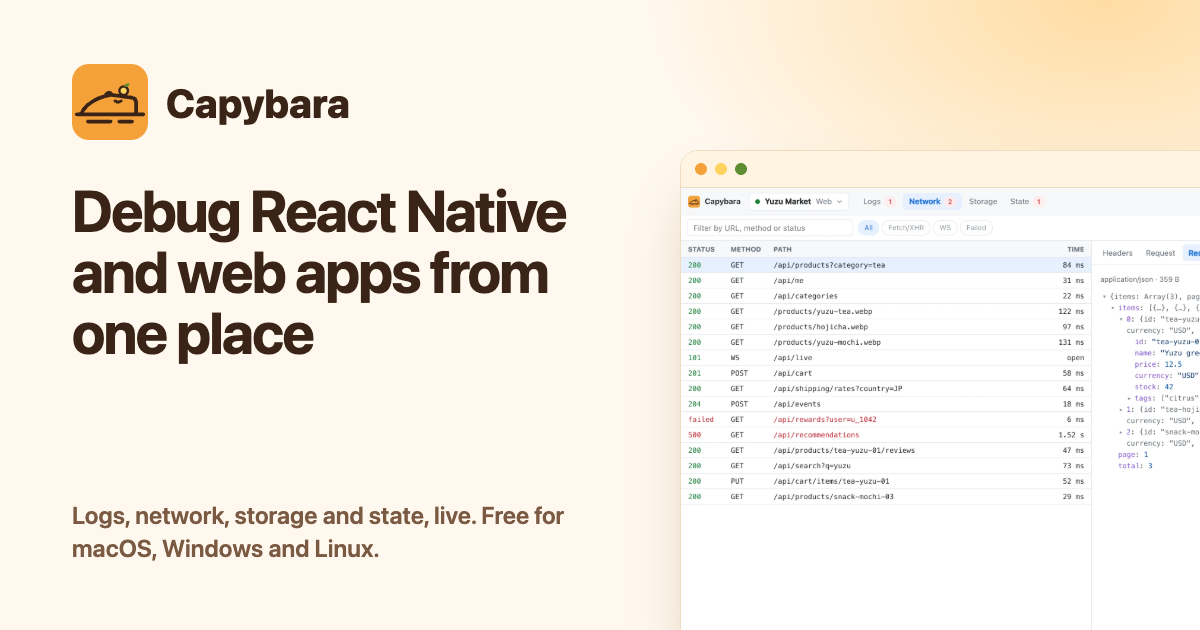
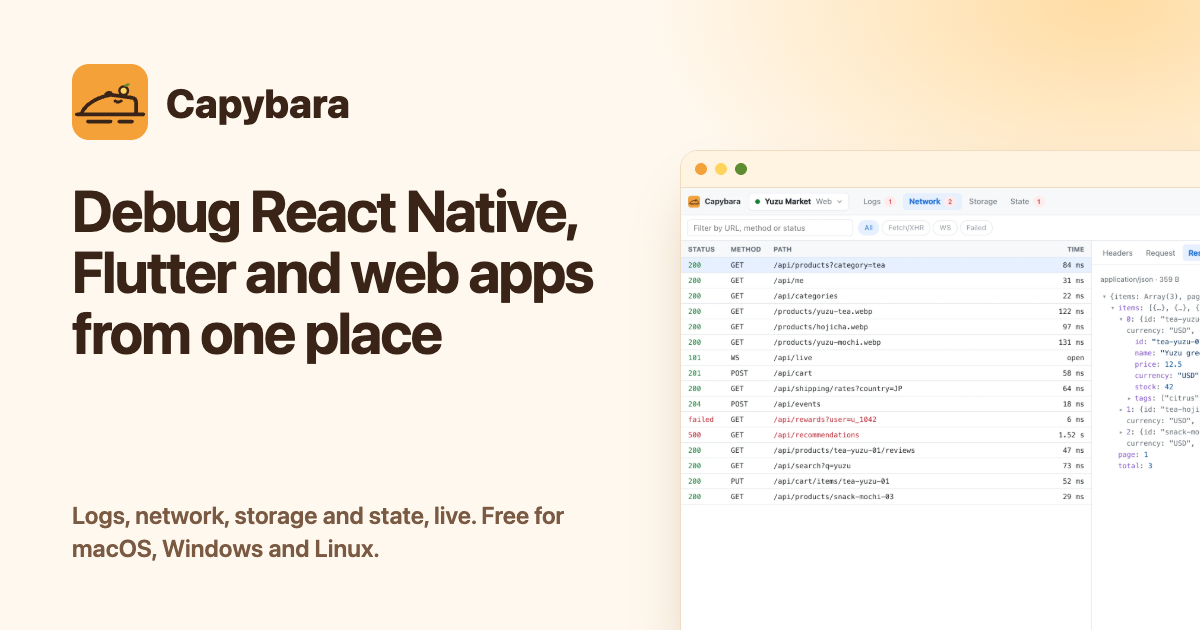
docs(website): add Flutter to the site
The page says what Flutter apps get: logs and requests with no package, and with capybara_devtools
from pub.dev storage (SharedPreferences, secure storage, Hive), state (Riverpod, Bloc) and
WebSockets, with a Flutter card in Get started. The title, descriptions and link preview card name
Flutter too. docs/PLAN.md records the release: npm 0.6.0 and pub.dev 0.1.0 on 28/10/2026.

Changed region(s): [[0.0617, 0.3619, 0.4933, 0.573]]

diff --git a/website/index.html b/website/index.html
@@ -3,10 +3,10 @@
   <head>
     <meta charset="UTF-8" />
     <meta name="viewport" content="width=device-width, initial-scale=1" />
-    <title>Capybara · Debug React Native and web apps from one place</title>
+    <title>Capybara · Debug React Native, Flutter and web apps from one place</title>
     <meta
       name="description"
-      content="Debug React Native and web apps from one place: logs, network (including WebSockets), storage and state from Redux, Zustand, TanStack Query, SWR and React Context, streamed live to a local UI. Free and open source for macOS, Windows and Linux."
+      content="Debug React Native, Flutter and web apps from one place: logs, network (including WebSockets), storage and state from Redux, Zustand, TanStack Query, SWR, React Context, Riverpod and Bloc, streamed live to a local UI. Free and open source for macOS, Windows and Linux."
     />
     <meta name="color-scheme" content="light dark" />
     <link rel="icon" type="image/svg+xml" href="./src/assets/logo.svg" />
@@ -16,7 +16,7 @@
     <meta property="og:title" content="Capybara" />
     <meta
       property="og:description"
-      content="Debug React Native and web apps from one place: logs, network (including WebSockets), storage and app state, streamed live to a local UI."
+      content="Debug React Native, Flutter and web apps from one place: logs, network (including WebSockets), storage and app state, streamed live to a local UI."
     />
     <meta property="og:image" content="https://capybara.lhphuc.com/og.png" />
     <meta name="twitter:card" content="summary_large_image" />
@@ -49,10 +49,11 @@
         <div class="container hero-inner">
           <div class="hero-text">
             <p class="eyebrow">Free and open source · macOS, Windows, Linux</p>
-            <h1>Debug React Native and web apps from one place</h1>
+            <h1>Debug React Native, Flutter and web apps from one place</h1>
             <p class="lead">
-              Logs, network (including WebSockets), storage, and state from Redux, Zustand, TanStack Query, SWR and React Context,
-              streamed live from your app to a local UI. On React Native 0.85 and later, logs, network and storage need no SDK.
+              Logs, network (including WebSockets), storage, and state from Redux, Zustand, TanStack Query, SWR, React Context,
+              Riverpod and Bloc, streamed live from your app to a local UI. React Native 0.85 and later needs no SDK for logs, network
+              and storage, and Flutter none for logs and network.
             </p>
             <div class="actions">
               <a class="button primary" id="hero-download" href="#download">Download</a>
@@ -122,9 +123,9 @@
               <div class="showcase-text">
                 <h3>See your app's state, change by change</h3>
                 <p>
-                  Redux, Zustand, TanStack Query, SWR and React Context in one tab: every action with what it changed, the current
-                  state, and query caches you can refetch or invalidate. Redux Toolkit, zustand's <code>devtools()</code> and
-                  Context need no extra code.
+                  Redux, Zustand, TanStack Query, SWR and React Context in one tab, and Riverpod and Bloc in Flutter: every action
+                  with what it changed, the current state, and query caches you can refetch or invalidate. Redux Toolkit, zustand's
+                  <code>devtools()</code> and Context need no extra code.
                 </p>
               </div>
               <figure class="window">
@@ -175,8 +176,8 @@
               <div class="showcase-text">
                 <h3>Read and edit storage</h3>
                 <p>
-                  localStorage, sessionStorage and cookies on the web. AsyncStorage and MMKV in React Native. Values refresh as the
-                  app writes them, and JSON opens as a tree.
+                  localStorage, sessionStorage and cookies on the web. AsyncStorage and MMKV in React Native. SharedPreferences,
+                  secure storage and Hive in Flutter. Values refresh as the app writes them, and JSON opens as a tree.
                 </p>
               </div>
               <figure class="window">
@@ -244,12 +245,18 @@
 
           <div class="feature-grid">
             <article class="feature">
-              <h3>No SDK for React Native</h3>
-              <p>On React Native 0.85 and later, Capybara attaches through Metro. Start your app as usual; nothing to install in it.</p>
+              <h3>No SDK for React Native or Flutter</h3>
+              <p>
+                Capybara attaches to React Native 0.85 and later through Metro, and to Flutter apps through the Dart VM service. Start
+                your app as usual; nothing to install in it.
+              </p>
             </article>
             <article class="feature">
               <h3>Requests and WebSockets</h3>
-              <p>fetch, XHR and axios with headers, bodies and timing. WebSocket messages both ways, with socket.io frames decoded.</p>
+              <p>
+                fetch, XHR and axios, or dio and <code>package:http</code> in Flutter, with headers, bodies and timing. WebSocket
+                messages both ways, with socket.io frames decoded.
+              </p>
             </article>
             <article class="feature">
               <h3>Ask your AI assistant</h3>
@@ -288,6 +295,37 @@
                   </li>
                   <li>Start Metro and run your app on a simulator or phone.</li>
                   <li>Your app appears, with its logs, network and storage.</li>
+                </ol>
+              </div>
+            </article>
+            <article class="step">
+              <div class="step-text">
+                <div class="step-head">
+                  <h3>Flutter</h3>
+                  <span class="tag tag-ok">Works today</span>
+                </div>
+                <p>
+                  Logs, errors and requests with no package. Storage, state and WebSockets come with
+                  <a href="https://pub.dev/packages/capybara_devtools">capybara_devtools</a> from pub.dev.
+                </p>
+              </div>
+              <div class="step-body">
+                <ol>
+                  <li>
+                    Open the <a href="#download">desktop app</a>, or run Capybara in a terminal:
+                    <div class="code-block">
+                      <pre><code>npx capybara-devtools</code></pre>
+                      <button type="button" class="copy-button" data-copy>Copy</button>
+                    </div>
+                  </li>
+                  <li>Run your app in debug mode with <code>flutter run</code>, or from your IDE. It appears on its own.</li>
+                  <li>
+                    For storage, state and WebSockets, add the package and run the app inside <code>Capybara.run</code>:
+                    <div class="code-block">
+                      <pre><code>flutter pub add capybara_devtools</code></pre>
+                      <button type="button" class="copy-button" data-copy>Copy</button>
+                    </div>
+                  </li>
                 </ol>
               </div>
             </article>
@@ -350,7 +388,8 @@ if (import.meta.env.DEV) init({ appName: 'My web app' });</code></pre>
           </div>
           <p class="note centered">
             Older React Native, editing storage, or state in a React Native app? Add <code>@capybara-devtools/react-native</code>;
-            the <a href="https://github.com/lhphuc99/capybara#readme">README</a> shows how.
+            the <a href="https://github.com/lhphuc99/capybara#readme">README</a> shows how, and how to add
+            <a href="https://github.com/lhphuc99/capybara#flutter--the-capybara-package">Riverpod and Bloc</a> to a Flutter app.
             <span class="npm-soon-note">Until the packages are on npm, <a href="https://github.com/lhphuc99/capybara#quick-start">run Capybara from source</a>.</span>
           </p>
           <p class="sr-only" aria-live="polite" id="copy-status"></p>
@@ -365,7 +404,7 @@ if (import.meta.env.DEV) init({ appName: 'My web app' });</code></pre>
           <ol class="flow">
             <li>
               <strong>Your app</strong>
-              <span>React Native through Metro, or a web page with the SDK</span>
+              <span>React Native through Metro, Flutter through the Dart VM service, or the SDK in your app</span>
             </li>
             <li>
               <strong>Capybara</strong>

diff --git a/website/scripts/og.html b/website/scripts/og.html
@@ -88,7 +88,7 @@
   </head>
   <body>
     <div class="brand"><img src="../src/assets/logo.svg" alt="" />Capybara</div>
-    <h1>Debug React Native and web apps from one place</h1>
+    <h1>Debug React Native, Flutter and web apps from one place</h1>
     <p>Logs, network, storage and state, live. Free for macOS, Windows and Linux.</p>
     <div class="window">
       <div class="bar"><span></span><span></span><span></span></div>

diff --git a/docs/PLAN.md b/docs/PLAN.md
@@ -8,7 +8,7 @@ Tool debug dùng chung cho React Native và web (React, phía client của Next.
 
 **Cập nhật hướng kết nối React Native:** CLI và desktop tự tìm app qua Metro/CDP ở cổng 8081/8082, không cần SDK cho log, network và storage có thể dò được. Storage qua CDP xem và sửa được (sửa có từ 0.5.1): AsyncStorage, MMKV export và instance private bắt qua runtime hook. MMKV ở đây là package `react-native-mmkv`, không phải MMKV lõi của Tencent (lõi đang ở 2.x). Nhắm tới react-native-mmkv 3.x/4.x và MMKV trên web; bản 2.x cần kiến trúc cũ nên nằm ngoài phạm vi. 3.x bắt khi app dùng lại instance, 4.x bắt khi app tạo instance sau lúc hook được gắn. Instance private 4.x đã tồn tại vẫn có thể không tìm được. Chế độ không SDK cần RN 0.85 trở lên: proxy Metro bản cũ hơn đá debugger đang mở khi có debugger mới nối vào. Chỉ attach target hỗ trợ nhiều debugger. SDK vẫn dùng cho web và để tab Storage tự cập nhật khi app ghi. App đã có SDK được bỏ qua để tránh trùng phiên. Metro port khác cấu hình bằng CLI `--metro-port`; `--no-metro` tắt discovery; app desktop chỉnh cả hai trong menu Settings (từ 0.5.1). Hướng dẫn và giới hạn hiện tại ở [README](../README.md#react-native--expo--no-sdk-needed).
 
-**Flutter (28/10/2026, chưa phát hành):** CLI và desktop tự tìm app Flutter chạy debug bằng `flutter run` hoặc IDE, qua tiến trình Dart Development Service (DDS) đi kèm mỗi app, rồi đọc qua Dart VM service như Flutter DevTools: log (`print`, `debugPrint`, `developer.log`), lỗi Flutter có stack, HTTP có header và body. Không cần gói, không sửa code. WebSocket, storage và state cần gói Dart `capybara_devtools` (mốc F2, ở `dart/packages`, chưa lên pub.dev): log, lỗi, request từ đầu, WebSocket, storage sửa được, state qua `capybara_devtools_riverpod`, `capybara_devtools_bloc` và `Capybara.watch`. Kế hoạch ở `plans/261027-flutter-support/` (chỉ ở máy). Hướng dẫn và giới hạn ở [README](../README.md#flutter--no-package-needed).
+**Flutter (phát hành 28/10/2026: npm 0.6.0, pub.dev 0.1.0):** CLI và desktop tự tìm app Flutter chạy debug bằng `flutter run` hoặc IDE, qua tiến trình Dart Development Service (DDS) đi kèm mỗi app, rồi đọc qua Dart VM service như Flutter DevTools: log (`print`, `debugPrint`, `developer.log`), lỗi Flutter có stack, HTTP có header và body. Không cần gói, không sửa code. WebSocket, storage và state cần gói Dart `capybara_devtools` (mốc F2, ở `dart/packages`, trên pub.dev dưới publisher `capybara.lhphuc.com`): log, lỗi, request từ đầu, WebSocket, storage sửa được, state qua `capybara_devtools_riverpod`, `capybara_devtools_bloc` và `Capybara.watch`. Kế hoạch ở `plans/261027-flutter-support/` (chỉ ở máy). Hướng dẫn và giới hạn ở [README](../README.md#flutter--no-package-needed).
 
 Định hướng sản phẩm: **một SDK, hai chế độ**
 
@@ -136,7 +136,7 @@ App (RN / web)                                 Máy dev
 
 **Đã xong và đã chạy thử**
 
-- Flutter qua Dart VM service (28/10/2026), sẽ có từ bản minor tiếp theo:
+- Flutter qua Dart VM service (28/10/2026), có từ 0.6.0:
   - Spike (`plans/261027-flutter-support/reports/02-vm-service-spike.md`): Flutter 3.47.8 (Dart 3.13.7, DDS 2.1), app `dart/example` trên simulator iPhone Duo (iOS 27.1) và máy ảo `Capybara-Android-Test` (API 34). Thấy app và mở phiên sau 0,3–0,6 s; 1000 dòng `print` đủ và đúng thứ tự; body request/response của dio, `http`, `HttpClient`, cupertino_http khớp sha256 từng byte với mock server (10 KB, 1 MB, POST JSON, multipart, 404); hot restart qua service của flutter tool, terminal `flutter run` không đổi.
   - CLI thật (`bin.js`, cổng tạm) với cả hai app cùng lúc: hai phiên `capybara_example` (iOS, Android có `isEmulator`), runtime "Flutter 3.47.8 · Dart 3.13.7 · via Dart VM service"; tab Logs có print/debugPrint, `developer.log` mức warn kèm `[example.checkout]`, lỗi build `StateError` có stack; Network có request kèm body, lỗi kết nối; Storage và State nói cần gói cho Flutter. Đã chụp UI để soát. `capybara setup-guide dart/example` ra hướng dẫn Flutter.
   - Máy thật Pixel 7 (Android 17, USB): phiên "Pixel 7", có `print`, `debugPrint`, `developer.log` kèm lỗi, lỗi build có stack; body HTTP khớp sha256 với mock server (GET 10 KB, POST echo cả request lẫn response, 404, phản hồi upload; multipart ghi là binary đúng 65926 byte; 1 MB cắt khi hiện, size đúng), lỗi kết nối có message. App gọi mock server qua `adb reverse tcp:4100` và `--dart-define=MOCK_HOST=127.0.0.1`.
@@ -284,9 +284,9 @@ App (RN / web)                                 Máy dev
   - cửa sổ ẩn vẫn nhận và hiện event ngay
   - `npm run desktop:package` ra `.dmg` và `.zip` (ad-hoc signed); app đóng gói chạy được, UI phục vụ từ `app.asar`
 
-- Gói Dart `capybara_devtools` 0.1.0 (28/10/2026, chưa phát hành): 38 test (client với socket giả và `fake_async`, serialize, `run`/`init`/hook lỗi, socket thật qua `HttpOverrides`), test hợp đồng với server Node thật build từ repo (phiên, log, lỗi, command khứ hồi, nối lại khi server khởi động lại), test biên dịch web trên Chrome. App mẫu chạy với `--dart-define=CAPYBARA_SDK=true` trên simulator iPhone Duo, máy ảo Android `Pixel_Fold_API_34` (API 34) và macOS (debug, và release có `CAPYBARA_ENABLED`): phiên `capybara_devtools` "iOS 27.1 · emulator" / "Google sdk_gphone64_arm64 · Android 14 · emulator" / "macOS 27.0.1", runtime "Flutter 3.47.8 · Dart 3.13.7", `dartPackages` cả ở bản AOT; có `print`, `debugPrint`, `Capybara.log` kèm giá trị, lỗi async nhận ở zone, lỗi build/assert/overflow kèm thư viện, ngữ cảnh và widget gây lỗi; 1000 dòng `print` đủ (8 lô); hot restart ra phiên mới; bridge nhường app, không có phiên trùng. Android: không có `adb reverse` thì nối qua `10.0.2.2`; `ext.capybara.connect` sang `127.0.0.1` (có `adb reverse` trên máy ảo đó) nối lại cùng phiên, seq liền mạch, không trùng; host sai bị từ chối. App bỏ `usesCleartextTraffic` vẫn nối được `ws://`: chính sách cleartext của Android không áp lên socket của dart:io. Máy thật Pixel 7 (Android 17): "Google Pixel 7 · Android 17", qua USB nối `127.0.0.1` nhờ `adb reverse`; qua Wi‑Fi bằng `--dart-define=CAPYBARA_HOST=<IP LAN của máy>` và bằng `ext.capybara.connect` (cùng phiên, server ghi địa chỉ của điện thoại).
+- Gói Dart `capybara_devtools` 0.1.0 (phát hành 28/10/2026): 38 test (client với socket giả và `fake_async`, serialize, `run`/`init`/hook lỗi, socket thật qua `HttpOverrides`), test hợp đồng với server Node thật build từ repo (phiên, log, lỗi, command khứ hồi, nối lại khi server khởi động lại), test biên dịch web trên Chrome. App mẫu chạy với `--dart-define=CAPYBARA_SDK=true` trên simulator iPhone Duo, máy ảo Android `Pixel_Fold_API_34` (API 34) và macOS (debug, và release có `CAPYBARA_ENABLED`): phiên `capybara_devtools` "iOS 27.1 · emulator" / "Google sdk_gphone64_arm64 · Android 14 · emulator" / "macOS 27.0.1", runtime "Flutter 3.47.8 · Dart 3.13.7", `dartPackages` cả ở bản AOT; có `print`, `debugPrint`, `Capybara.log` kèm giá trị, lỗi async nhận ở zone, lỗi build/assert/overflow kèm thư viện, ngữ cảnh và widget gây lỗi; 1000 dòng `print` đủ (8 lô); hot restart ra phiên mới; bridge nhường app, không có phiên trùng. Android: không có `adb reverse` thì nối qua `10.0.2.2`; `ext.capybara.connect` sang `127.0.0.1` (có `adb reverse` trên máy ảo đó) nối lại cùng phiên, seq liền mạch, không trùng; host sai bị từ chối. App bỏ `usesCleartextTraffic` vẫn nối được `ws://`: chính sách cleartext của Android không áp lên socket của dart:io. Máy thật Pixel 7 (Android 17): "Google Pixel 7 · Android 17", qua USB nối `127.0.0.1` nhờ `adb reverse`; qua Wi‑Fi bằng `--dart-define=CAPYBARA_HOST=<IP LAN của máy>` và bằng `ext.capybara.connect` (cùng phiên, server ghi địa chỉ của điện thoại).
 
-- Gói Dart, phần network, storage, state (28/10/2026, chưa phát hành): test Dart cho network (server loopback thật: GET, POST, 1 MB, gzip, 404, lỗi kết nối, huỷ, response chậm, override lồng nhau, WebSocket), storage (gói shared_preferences, flutter_secure_storage, hive_ce thật), state (engine, Riverpod và Bloc thật). App mẫu chế độ gói trên macOS: body của dio, `http`, HttpClient, cupertino_http khớp sha256, 20 ảnh `Image.network`, WebSocket hai chiều và mã đóng; sửa SharedPreferences từ Capybara giữ kiểu (app cộng tiếp int đúng), Hive tự báo khi app ghi; tab State nhóm Riverpod, Bloc, Watched (ảnh soát sáng/tối), MCP `get_state`/`get_state_actions` đọc đúng. Máy ảo Android (Pixel Fold API 34): secure storage đọc được và MCP hiện `[hidden]`; build với `CAPYBARA_HOST` không tới được thì sau 12 s cầu VM service bảo gói nối IP LAN và gói nối được.
+- Gói Dart, phần network, storage, state (phát hành 28/10/2026): test Dart cho network (server loopback thật: GET, POST, 1 MB, gzip, 404, lỗi kết nối, huỷ, response chậm, override lồng nhau, WebSocket), storage (gói shared_preferences, flutter_secure_storage, hive_ce thật), state (engine, Riverpod và Bloc thật). App mẫu chế độ gói trên macOS: body của dio, `http`, HttpClient, cupertino_http khớp sha256, 20 ảnh `Image.network`, WebSocket hai chiều và mã đóng; sửa SharedPreferences từ Capybara giữ kiểu (app cộng tiếp int đúng), Hive tự báo khi app ghi; tab State nhóm Riverpod, Bloc, Watched (ảnh soát sáng/tối), MCP `get_state`/`get_state_actions` đọc đúng. Máy ảo Android (Pixel Fold API 34): secure storage đọc được và MCP hiện `[hidden]`; build với `CAPYBARA_HOST` không tới được thì sau 12 s cầu VM service bảo gói nối IP LAN và gói nối được.
 
 **Chưa kiểm tra**
 
